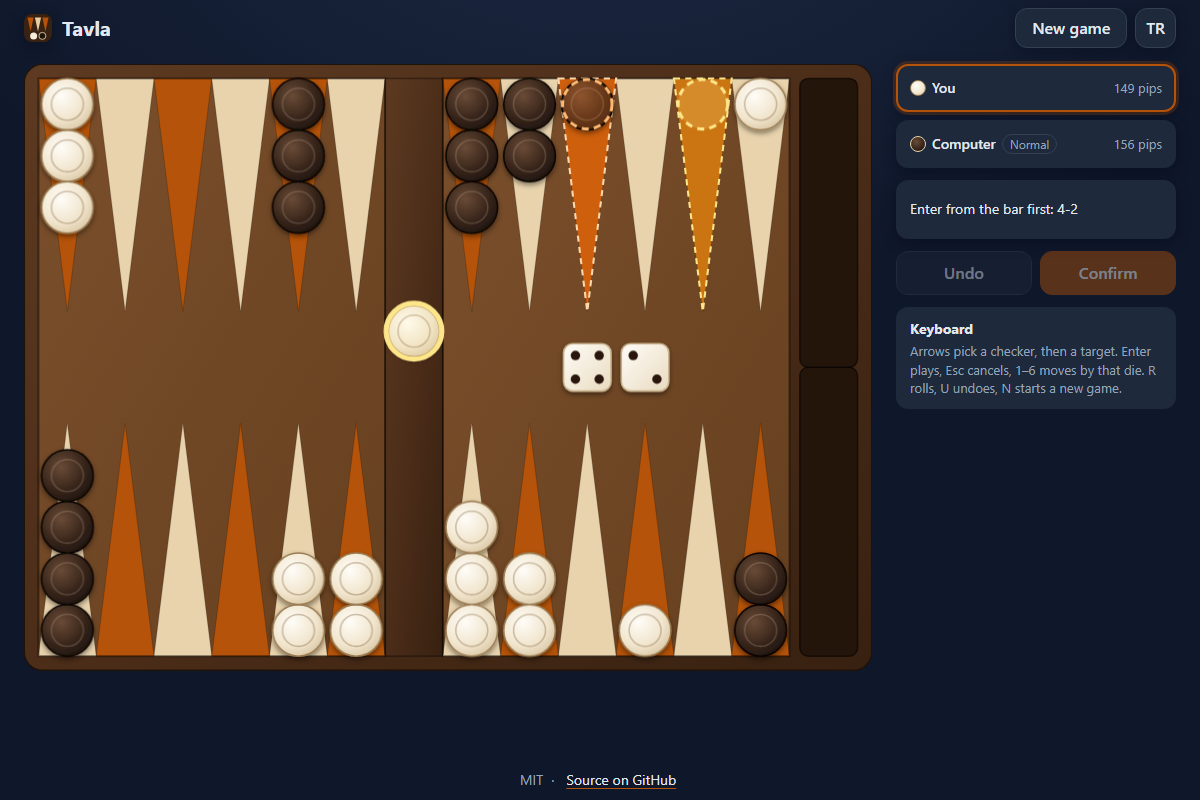
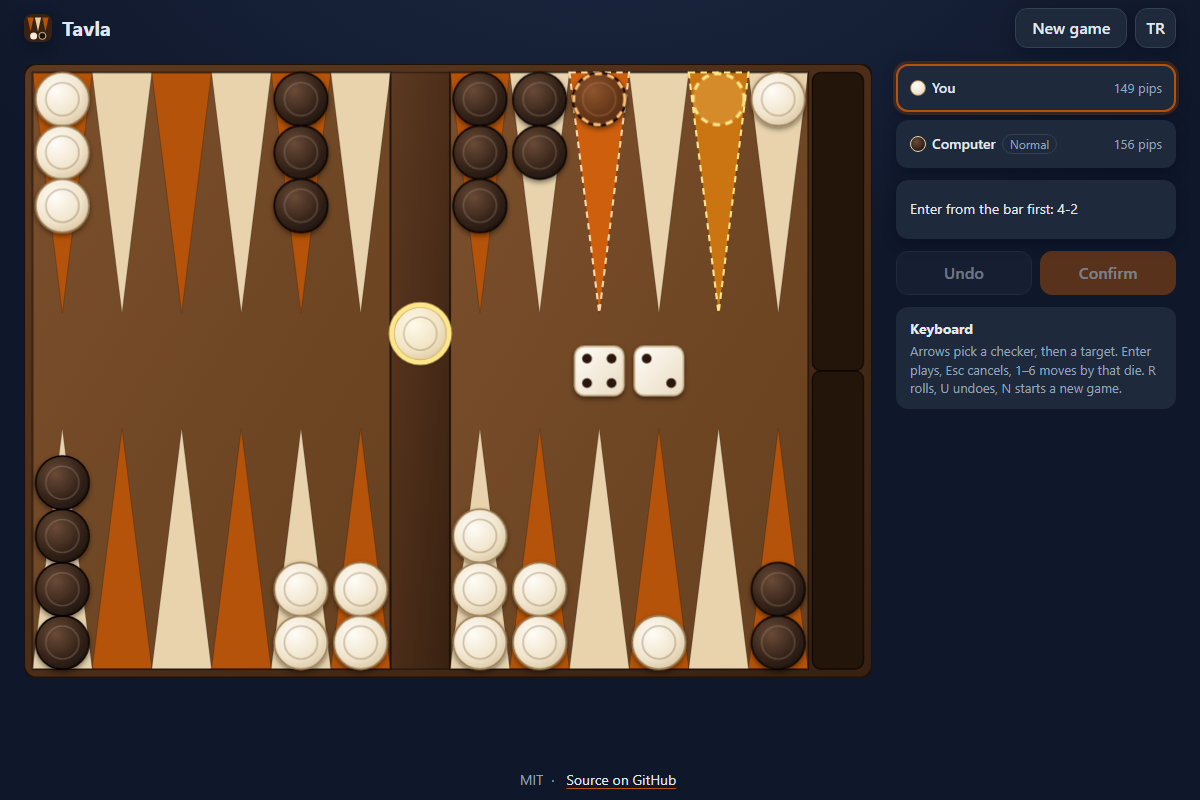
Polish: stronger openings, bear off the last checker with the larger die

Changed region(s): [[0.0, 0.0625, 0.74, 0.875], [0.4625, 0.4062, 0.5858, 0.5]]

diff --git a/src/ai.js b/src/ai.js
@@ -1,6 +1,7 @@
 /**
  * Computer opponent: a one-ply search over every legal turn, scored by a hand-made
- * evaluation (pip count, blots under fire, made points, primes, home board, bar).
+ * evaluation (pip count, blots under fire, deep blots, made points, primes, builders,
+ * split back checkers, home board, bar).
  * Pure module; the Easy level adds noise from an injected seeded generator.
  */
 import { POINT_COUNT, WHITE, opponent, pipDistance } from './board.js';
@@ -16,8 +17,20 @@ const POINT_VALUE = [0, 1, 2, 3, 4.5, 6, 6, 5, 3, 2, 1.5, 1, 1, 0.5, 0.5, 0.5, 0
 const PRIME_VALUE = [0, 0, 1, 3, 6, 10, 15];
 /** Pips lost on top of the distance already travelled when a blot is hit. */
 const HIT_COST = 6;
+/** The same for a back checker in the opponent's home board, which loses little by being hit. */
+const BACK_HIT_COST = 2;
+/** Pip distance where the opponent's home board starts. */
+const THEIR_HOME = 19;
+/** Pip distance from which checkers count as back checkers for the split bonus. */
+const BACK_ZONE = 16;
 /** Penalty for each checker beyond the third on a point. */
 const STACK_PENALTY = 0.5;
+/** Extra penalty for a blot deep in the home board (indexed by pip distance 1..4), which is hard to cover. */
+const DEEP_BLOT = [0, 5, 4.5, 3, 1];
+/** Bonus for each extra point the back checkers occupy in the opponent's home board (a split). */
+const SPLIT_BONUS = 3.5;
+/** Bonus for each outfield point (pip distance 7..11) with a checker on it, ready to make a new point. */
+const BUILDER_BONUS = 2.5;
 /** Every distinct roll with its weight out of 36 and a bit mask of the distances it can travel. */
 const ROLLS = buildRolls();
 
@@ -49,6 +62,9 @@ export function evaluate(board, player) {
     PRIME_VALUE[Math.min(longestPrime(mine, theirRearmost), 6)] +
     barPressure(mine, theirs) -
     blotRisk(mine, theirs) -
+    deepBlots(mine, theirRearmost) +
+    backSplit(mine, theirs) +
+    builders(mine) -
     stackPenalty(mine)
   );
 }
@@ -153,7 +169,7 @@ function blotRisk(mine, theirs) {
     if (mine[r] !== 1) continue;
     let mask = 0;
     for (let s = 0; s < r; s++) if (theirs[s] > 0) mask |= 1 << (r - s);
-    if (mask !== 0) blots.push({ mask, cost: 25 - r + HIT_COST });
+    if (mask !== 0) blots.push({ mask, cost: 25 - r + (r >= THEIR_HOME ? BACK_HIT_COST : HIT_COST) });
   }
   if (blots.length === 0) return 0;
   let risk = 0;
@@ -169,4 +185,25 @@ function stackPenalty(mine) {
   let penalty = 0;
   for (let r = 1; r <= 24; r++) penalty += Math.max(0, mine[r] - 3) * STACK_PENALTY;
   return penalty;
+}
+
+function builders(mine) {
+  let occupied = 0;
+  for (let r = 7; r <= 11; r++) if (mine[r] > 0) occupied += 1;
+  return occupied * BUILDER_BONUS;
+}
+
+/** Blots on the lowest points while an opposing checker can still hit them. */
+function deepBlots(mine, theirRearmost) {
+  let penalty = 0;
+  for (let r = theirRearmost + 1; r < DEEP_BLOT.length; r++) if (mine[r] === 1) penalty += DEEP_BLOT[r];
+  return penalty;
+}
+
+/** Back checkers spread over more points find a way out (and an anchor) more easily, while the opponent's board is open. */
+function backSplit(mine, theirs) {
+  if (homePoints(theirs, THEIR_HOME, 24) >= 3) return 0;
+  let occupied = 0;
+  for (let r = BACK_ZONE; r <= 24; r++) if (mine[r] > 0) occupied += 1;
+  return Math.max(0, occupied - 1) * SPLIT_BONUS;
 }

diff --git a/src/turn.js b/src/turn.js
@@ -1,8 +1,11 @@
 /**
  * A turn in progress: lets a player make one step at a time while keeping every
  * step consistent with a complete legal turn (both dice used when possible, the
- * larger die when only one can be used). Pure module; turn objects are immutable.
+ * larger die when only one can be used). A step that bears off the player's last
+ * checker is always allowed and ends the turn, since the game is over. Pure module;
+ * turn objects are immutable.
  */
+import { CHECKERS, OFF } from './board.js';
 import { applyStep, maxDiceUsable, singleSteps } from './rules.js';
 import { diceToPlay, distinctDice, removeDie } from './dice.js';
 
@@ -52,7 +55,7 @@ function forcedDie(board, player, dice, total) {
  * @returns {boolean}
  */
 export function isTurnComplete(turn) {
-  return turn.played.length >= turn.total;
+  return turn.played.length >= turn.total || hasWon(turn);
 }
 
 /**
@@ -62,7 +65,7 @@ export function isTurnComplete(turn) {
  */
 export function allowedSteps(turn) {
   const left = turn.total - turn.played.length;
-  if (left <= 0) return [];
+  if (left <= 0 || hasWon(turn)) return [];
   const dice = turn.forcedDie === null ? distinctDice(turn.remaining) : [turn.forcedDie];
   const allowed = [];
   for (const die of dice) {
@@ -73,7 +76,27 @@ export function allowedSteps(turn) {
       }
     }
   }
-  return allowed;
+  return [...allowed, ...winningSteps(turn, allowed)];
+}
+
+function hasWon(turn) {
+  return turn.board.off[turn.player] === CHECKERS;
+}
+
+/**
+ * Bear-off steps that finish the game but are not already allowed, such as bearing
+ * the last checker off with the larger die instead of moving it with the smaller one first.
+ */
+function winningSteps(turn, allowed) {
+  if (turn.board.off[turn.player] !== CHECKERS - 1) return [];
+  const known = (step) => allowed.some((other) => other.from === step.from && other.die === step.die && other.to === OFF);
+  const steps = [];
+  for (const die of distinctDice(turn.remaining)) {
+    for (const step of singleSteps(turn.board, turn.player, die)) {
+      if (step.to === OFF && !known(step)) steps.push(step);
+    }
+  }
+  return steps;
 }
 
 /**

diff --git a/style.css b/style.css
@@ -232,11 +232,12 @@ button {
 }
 
 .board-wrap {
-  --board-w: 822;
-  --board-h: 588;
-  /* Height of everything except the board (header 48, players 32, status 34, buttons 44, footer 40,
-     three 4px gaps), so on a phone the board gets all the rest and never pushes the controls off screen. */
-  --chrome: 210px;
+  --board-w: 796;
+  --board-h: 576;
+  /* Height of everything above and below the board up to the buttons (header 48, players 32, status 34,
+     buttons 44, three 4px gaps), so on a phone the board gets all the rest and never pushes the controls
+     off screen. The footer may sit below the fold; the board's points are wider for it. */
+  --chrome: 170px;
   --avail-h: calc(100vh - var(--chrome));
   grid-area: board;
   position: relative;
@@ -259,7 +260,7 @@ button {
   min-width: 0;
   max-width: max(240px, calc(var(--avail-h) * var(--board-w) / var(--board-h)));
   aspect-ratio: var(--board-w) / var(--board-h);
-  border-radius: 18px;
+  border-radius: 8px;
   touch-action: none;
   user-select: none;
   -webkit-user-select: none;
@@ -340,6 +341,10 @@ button {
 @media (max-width: 480px) {
   .player-level {
     display: none;
+  }
+
+  .game {
+    padding: 0 8px;
   }
 }
 

diff --git a/test/ai.test.js b/test/ai.test.js
@@ -52,6 +52,15 @@ test('normal level makes the classic opening points for both colours', () => {
   }
 });
 
+test('normal level opens without deep blots and splits the back checkers with small rolls', () => {
+  const opening = (dice) => chooseTurn(startingBoard(), WHITE, dice).steps.map((step) => `${step.from}>${step.to}`).sort();
+  // White's 24-point is index 23, the mid-point 12, the 8-point 7 (index = pips - 1).
+  assert.deepEqual(opening([6, 2]), ['12>10', '23>17'], '6-2: 24/18 13/11');
+  assert.deepEqual(opening([6, 3]), ['12>9', '23>17'], '6-3: 24/18 13/10');
+  assert.deepEqual(opening([2, 1]), ['12>10', '23>22'], '2-1: 13/11 24/23');
+  assert.deepEqual(opening([3, 2]), ['12>10', '12>9'], '3-2: 13/11 13/10');
+});
+
 test('the AI hits a blot when it can make a point on it', () => {
   const board = createBoard({
     white: { 23: 2, 12: 4, 9: 1, 7: 3, 5: 5 },

diff --git a/test/turn.test.js b/test/turn.test.js
@@ -125,3 +125,16 @@ test('a turn with no legal move is complete at once', () => {
   assert.ok(isTurnComplete(turn));
   assert.deepEqual(allowedSteps(turn), []);
 });
+
+test('the last checker may be borne off with the larger die, which ends the turn', () => {
+  const board = createBoard({ white: { 2: 1 }, black: { 23: 15 }, off: [14, 0] });
+  const turn = startTurn(board, WHITE, [6, 1]);
+  const direct = findStep(turn, 2, OFF);
+  assert.ok(direct, 'bearing off from the 3-point with the 6 is allowed');
+  assert.equal(direct.die, 6);
+  assert.ok(findStep(turn, 2, 1, 1), 'moving down with the 1 first still works');
+  const after = playStep(turn, direct);
+  assert.equal(after.board.off[WHITE], 15);
+  assert.ok(isTurnComplete(after));
+  assert.deepEqual(allowedSteps(after), []);
+});

diff --git a/src/view.js b/src/view.js
@@ -121,7 +121,7 @@ export function createBoardView(root) {
 
 function drawBase(layer, layout) {
   clear(layer);
-  svg('rect', { ...rectAttributes(layout.outline), rx: 18, class: 'board-frame' }, layer);
+  svg('rect', { ...rectAttributes(layout.outline), rx: 12, class: 'board-frame' }, layer);
   for (const field of layout.fields) svg('rect', { ...rectAttributes(field), class: 'board-field' }, layer);
   svg('rect', { ...rectAttributes(layout.bar), class: 'board-bar' }, layer);
   for (const player of [WHITE, BLACK]) svg('rect', { ...rectAttributes(layout.tray(player)), rx: 8, class: 'board-tray' }, layer);

diff --git a/test/layout.test.js b/test/layout.test.js
@@ -19,8 +19,8 @@ function centre(rect) {
 
 test('the portrait board is the landscape board turned on its side', () => {
   const [landscape, portrait] = LAYOUTS;
-  assert.deepEqual([landscape.width, landscape.height], [822, 588]);
-  assert.deepEqual([portrait.width, portrait.height], [588, 822]);
+  assert.deepEqual([landscape.width, landscape.height], [796, 576]);
+  assert.deepEqual([portrait.width, portrait.height], [576, 796]);
   for (let index = 0; index < POINT_COUNT; index++) {
     const [x, y] = landscape.checker(index, 2);
     assert.deepEqual(portrait.checker(index, 2), [y, x]);

diff --git a/index.html b/index.html
@@ -50,7 +50,7 @@
     </section>
 
     <div class="board-wrap">
-      <svg id="board" class="board" viewBox="0 0 822 588" tabindex="0" role="group" data-i18n-aria="boardLabel" aria-label="Tavla board" aria-describedby="status"></svg>
+      <svg id="board" class="board" viewBox="0 0 796 576" tabindex="0" role="group" data-i18n-aria="boardLabel" aria-label="Tavla board" aria-describedby="status"></svg>
       <div class="result" id="result" hidden>
         <p class="result-title" id="result-title"></p>
         <p class="result-detail" id="result-detail"></p>

diff --git a/src/layout.js b/src/layout.js
@@ -19,11 +19,11 @@ export const CHECKER_RADIUS = 25;
 /** Edge length of a die. */
 export const DIE_SIZE = 46;
 
-const FRAME = 14;
+const FRAME = 8;
 const POINT = 56;
 const BAR_WIDTH = 56;
-const TRAY_GAP = 10;
-const TRAY = 56;
+const TRAY_GAP = 4;
+const TRAY = 48;
 const HALF = 280;
 const TRIANGLE = 226;
 const DIAMETER = 2 * CHECKER_RADIUS;
